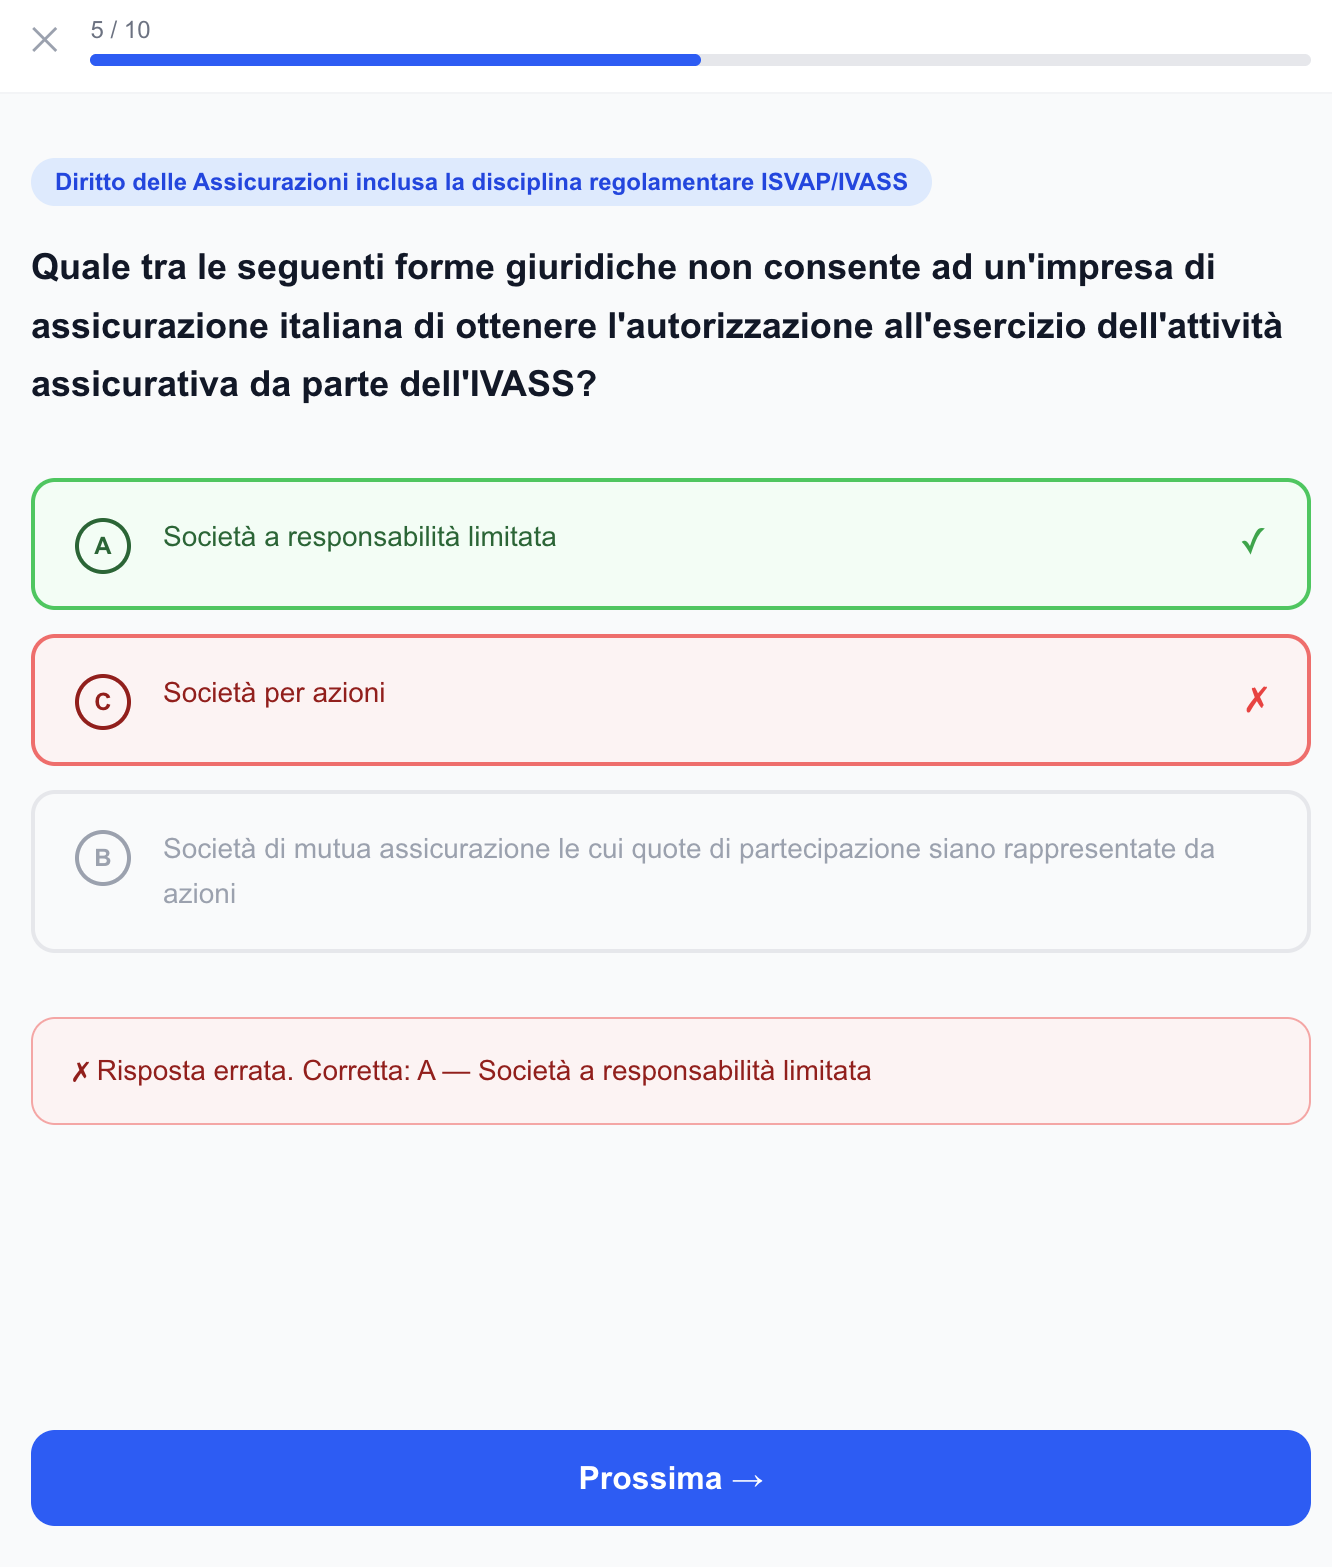
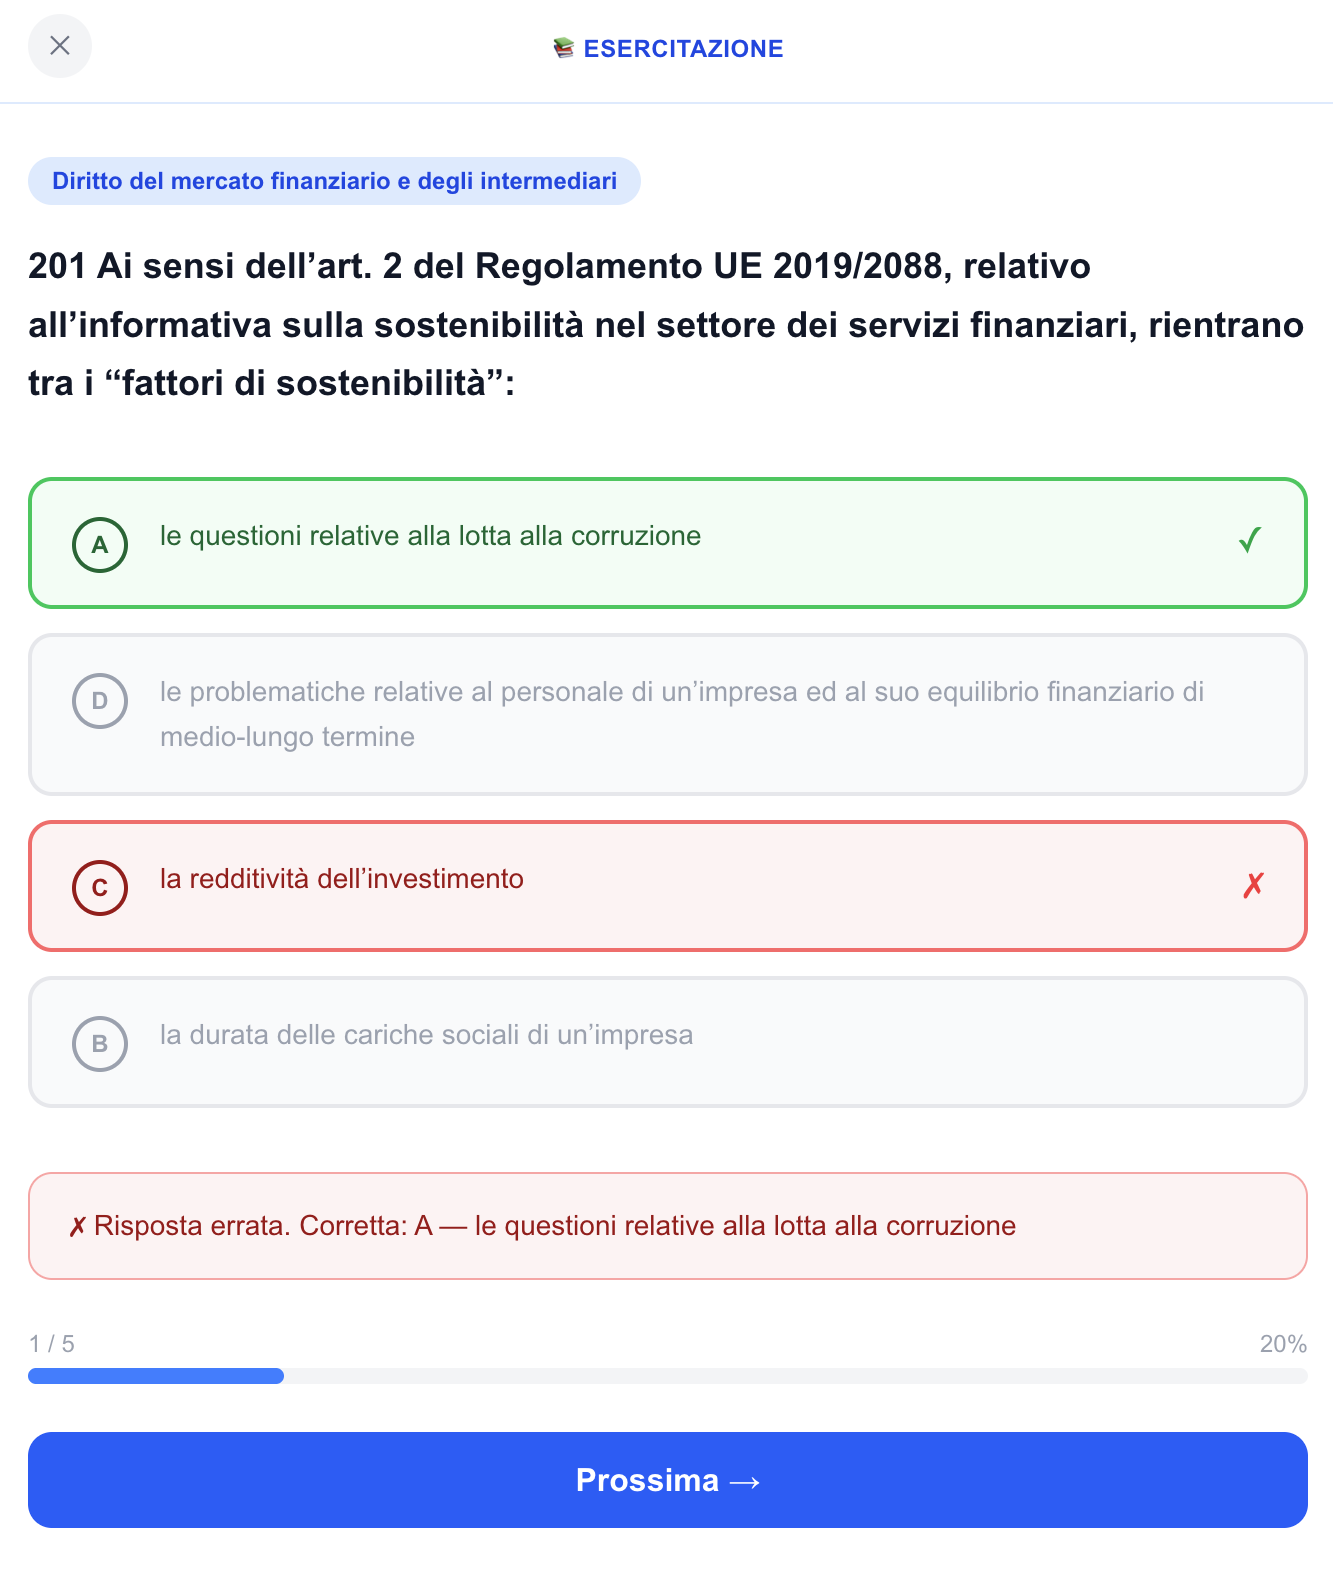
Landing: screenshot quiz nella sezione Come funziona

diff --git a/app/page.tsx b/app/page.tsx
@@ -133,6 +133,13 @@ export default function HomePage() {
               </div>
             ))}
           </div>
+          <div className="mt-10 max-w-sm mx-auto">
+            <img 
+              src="/quiz-screenshot.png" 
+              alt="Screenshot quiz OCF" 
+              className="rounded-2xl shadow-xl border border-gray-100 w-full"
+            />
+          </div>
         </div>
       </section>
 
